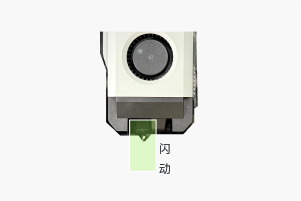
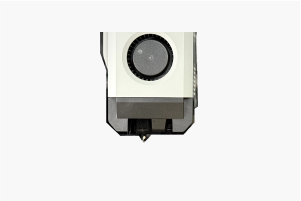
FIX:Fixed incorrect printer status
jira:[fixed device issue ]

(cherry picked from commit 0572d811780ac406214665af7748e4ba8243bdc8)

diff --git a/src/slic3r/GUI/StatusPanel.cpp b/src/slic3r/GUI/StatusPanel.cpp
@@ -2161,10 +2161,11 @@ StatusPanel::StatusPanel(wxWindow *parent, wxWindowID id, const wxPoint &pos, co
     Bind(wxEVT_WEBREQUEST_STATE, &StatusPanel::on_webrequest_state, this);
 
     Bind(wxCUSTOMEVT_SET_TEMP_FINISH, [this](wxCommandEvent e) {
-        int id = e.GetInt();
+        int  id   = e.GetInt();
         if (id == m_tempCtrl_bed->GetType()) {
             on_set_bed_temp();
         } else if (id == m_tempCtrl_nozzle->GetType()) {
+
             if (e.GetString() == wxString::Format("%d", MAIN_NOZZLE_ID)) {
                 on_set_nozzle_temp(MAIN_NOZZLE_ID);
             } else if (e.GetString() == wxString::Format("%d", DEPUTY_NOZZLE_ID)) {
@@ -2190,6 +2191,8 @@ StatusPanel::StatusPanel(wxWindow *parent, wxWindowID id, const wxPoint &pos, co
     m_tempCtrl_bed->Connect(wxEVT_SET_FOCUS, wxFocusEventHandler(StatusPanel::on_bed_temp_set_focus), NULL, this);
     m_tempCtrl_nozzle->Connect(wxEVT_KILL_FOCUS, wxFocusEventHandler(StatusPanel::on_nozzle_temp_kill_focus), NULL, this);
     m_tempCtrl_nozzle->Connect(wxEVT_SET_FOCUS, wxFocusEventHandler(StatusPanel::on_nozzle_temp_set_focus), NULL, this);
+    m_tempCtrl_nozzle_deputy->Connect(wxEVT_KILL_FOCUS, wxFocusEventHandler(StatusPanel::on_nozzle_temp_kill_focus), NULL, this);
+    m_tempCtrl_nozzle_deputy->Connect(wxEVT_SET_FOCUS, wxFocusEventHandler(StatusPanel::on_nozzle_temp_set_focus), NULL, this);
     m_tempCtrl_chamber->Connect(wxEVT_KILL_FOCUS, wxFocusEventHandler(StatusPanel::on_cham_temp_kill_focus), NULL, this);
     m_tempCtrl_chamber->Connect(wxEVT_SET_FOCUS, wxFocusEventHandler(StatusPanel::on_cham_temp_set_focus), NULL, this);
     m_switch_lamp->Connect(wxEVT_COMMAND_BUTTON_CLICKED, wxCommandEventHandler(StatusPanel::on_lamp_switch), NULL, this);
@@ -2256,6 +2259,10 @@ StatusPanel::~StatusPanel()
     m_tempCtrl_bed->Disconnect(wxEVT_SET_FOCUS, wxFocusEventHandler(StatusPanel::on_bed_temp_set_focus), NULL, this);
     m_tempCtrl_nozzle->Disconnect(wxEVT_KILL_FOCUS, wxFocusEventHandler(StatusPanel::on_nozzle_temp_kill_focus), NULL, this);
     m_tempCtrl_nozzle->Disconnect(wxEVT_SET_FOCUS, wxFocusEventHandler(StatusPanel::on_nozzle_temp_set_focus), NULL, this);
+
+    m_tempCtrl_nozzle_deputy->Disconnect(wxEVT_KILL_FOCUS, wxFocusEventHandler(StatusPanel::on_nozzle_temp_kill_focus), NULL, this);
+    m_tempCtrl_nozzle_deputy->Disconnect(wxEVT_SET_FOCUS, wxFocusEventHandler(StatusPanel::on_nozzle_temp_set_focus), NULL, this);
+
     m_switch_lamp->Disconnect(wxEVT_COMMAND_BUTTON_CLICKED, wxCommandEventHandler(StatusPanel::on_lamp_switch), NULL, this);
     /*m_switch_nozzle_fan->Disconnect(wxEVT_COMMAND_TOGGLEBUTTON_CLICKED, wxCommandEventHandler(StatusPanel::on_nozzle_fan_switch), NULL, this);
     m_switch_printing_fan->Disconnect(wxEVT_COMMAND_TOGGLEBUTTON_CLICKED, wxCommandEventHandler(StatusPanel::on_nozzle_fan_switch), NULL, this);
@@ -2853,24 +2860,28 @@ void StatusPanel::update_temp_ctrl(MachineObject *obj)
     if (m_temp_nozzle_timeout > 0) {
         m_temp_nozzle_timeout--;
     } else {
-        if (!nozzle_temp_input) { m_tempCtrl_nozzle->SetTagTemp((int) obj->m_extder_data.extders[MAIN_NOZZLE_ID].target_temp); }
+        if (!nozzle_temp_input) {
+            m_tempCtrl_nozzle->SetTagTemp((int) obj->m_extder_data.extders[MAIN_NOZZLE_ID].target_temp);
+        }
     }
 
     if (m_temp_nozzle_deputy_timeout > 0) {
         m_temp_nozzle_deputy_timeout--;
     }
     else {
-        if (!nozzle_temp_input && nozzle_num >= 2) { m_tempCtrl_nozzle_deputy->SetTagTemp((int)obj->m_extder_data.extders[DEPUTY_NOZZLE_ID].target_temp); }
+        if (!nozzle_temp_input && nozzle_num >= 2) {
+            m_tempCtrl_nozzle_deputy->SetTagTemp((int)obj->m_extder_data.extders[DEPUTY_NOZZLE_ID].target_temp);
+        }
     }
 
-    if ((obj->m_extder_data.extders[0].target_temp - obj->m_extder_data.extders[0].temp) >= TEMP_THRESHOLD_VAL) {
+    if ((obj->m_extder_data.extders[MAIN_NOZZLE_ID].target_temp - obj->m_extder_data.extders[MAIN_NOZZLE_ID].temp) >= TEMP_THRESHOLD_VAL) {
         m_tempCtrl_nozzle->SetIconActive();
     } else {
         m_tempCtrl_nozzle->SetIconNormal();
     }
 
     if (nozzle_num >= 2 && obj->m_extder_data.extders.size() > 1){
-        if ((obj->m_extder_data.extders[1].target_temp - obj->m_extder_data.extders[1].temp) >= TEMP_THRESHOLD_VAL) {
+        if ((obj->m_extder_data.extders[DEPUTY_NOZZLE_ID].target_temp - obj->m_extder_data.extders[DEPUTY_NOZZLE_ID].temp) >= TEMP_THRESHOLD_VAL) {
             m_tempCtrl_nozzle_deputy->SetIconActive();
         }
         else {
@@ -2913,17 +2924,18 @@ void StatusPanel::update_misc_ctrl(MachineObject *obj)
         m_extruderImage[select_index]->update(ExtruderState::FILLED_LOAD, ExtruderState::FILLED_UNLOAD);
 
         /*current*/
-        if (obj->m_extder_data.current_extder_id == 0xf) {
-            m_extruderImage[select_index]->setExtruderUsed("");
-            m_nozzle_btn_panel->updateState("");
-        } else if (obj->m_extder_data.current_extder_id == MAIN_NOZZLE_ID) {
-            m_extruderImage[select_index]->setExtruderUsed("right");
-            m_nozzle_btn_panel->updateState("right");
-        } else if (obj->m_extder_data.current_extder_id == DEPUTY_NOZZLE_ID) {
-            m_extruderImage[select_index]->setExtruderUsed("left");
-            m_nozzle_btn_panel->updateState("left");
+        if (obj->flag_update_nozzle) {
+            if (obj->m_extder_data.current_extder_id == 0xf) {
+                m_extruderImage[select_index]->setExtruderUsed("");
+                m_nozzle_btn_panel->updateState("");
+            } else if (obj->m_extder_data.current_extder_id == MAIN_NOZZLE_ID) {
+                m_extruderImage[select_index]->setExtruderUsed("right");
+                m_nozzle_btn_panel->updateState("right");
+            } else if (obj->m_extder_data.current_extder_id == DEPUTY_NOZZLE_ID) {
+                m_extruderImage[select_index]->setExtruderUsed("left");
+                m_nozzle_btn_panel->updateState("left");
+            }
         }
-        Layout();
     } else {
         m_nozzle_btn_panel->Hide();
         m_extruder_book->SetSelection(m_nozzle_num);
@@ -3162,24 +3174,19 @@ void StatusPanel::update_ams(MachineObject *obj)
                 m_ams_control->SetExtruder(false, true, ext.snow.ams_id, m_ams_control->GetCanColour(obj->m_ams_id, obj->m_tray_id));
             }
         }
-
-
-        //m_ams_control->SetAmsStep(std::to_string(VIRTUAL_TRAY_MAIN_ID), "0", AMSPassRoadType::AMS_ROAD_TYPE_LOAD, AMSPassRoadSTEP::AMS_ROAD_STEP_COMBO_LOAD_STEP3);
-        //m_ams_control->SetExtruder(true, true, std::to_string(VIRTUAL_TRAY_MAIN_ID), *wxRED);
     }
 
     bool ams_loading_state = false;
     auto ams_status_sub = obj->ams_status_sub;
 
     int vt_tray_id = VIRTUAL_TRAY_DEPUTY_ID;
-    /*if (obj->is_enable_np) {
-        if (obj->m_extder_data.current_loading_extder_id == MAIN_NOZZLE_ID || obj->m_extder_data.current_loading_extder_id == DEPUTY_NOZZLE_ID) {
+    if (obj->is_enable_np) {
+        if (obj->m_extder_data.current_busy_for_loading) {
             ams_loading_state = true;
         }
-    } else if(obj->ams_status_main == AMS_STATUS_MAIN_FILAMENT_CHANGE){
+    } else if (obj->ams_status_main == AMS_STATUS_MAIN_FILAMENT_CHANGE) {
         ams_loading_state = true;
-    }*/
-
+    }
 
     if (ams_loading_state) {
         update_filament_step();
@@ -3346,7 +3353,6 @@ void StatusPanel::update_ams_insert_material(MachineObject* obj) {
 
 void StatusPanel::update_ams_control_state(std::string ams_id, std::string slot_id)
 {
-    return;
     // set default value to true
     bool enable[ACTION_BTN_COUNT];
     enable[ACTION_BTN_LOAD] = true;
@@ -3362,10 +3368,13 @@ void StatusPanel::update_ams_control_state(std::string ams_id, std::string slot_
         else {
             /*switch now*/
             bool in_switch_filament = false;
-            for ( auto ext : obj->m_extder_data.extders) {
-                if (ext.ams_stat == AmsStatusMain::AMS_STATUS_MAIN_FILAMENT_CHANGE) {
+
+            if (obj->is_enable_np) {
+                if (obj->m_extder_data.current_busy_for_loading) {
                     in_switch_filament = true;
                 }
+            } else if (obj->ams_status_main == AMS_STATUS_MAIN_FILAMENT_CHANGE) {
+                in_switch_filament = true;
             }
 
             if (in_switch_filament) {
@@ -4011,7 +4020,7 @@ void StatusPanel::on_set_nozzle_temp(int nozzle_id)
         if (nozzle_id == DEPUTY_NOZZLE_ID) {
             wxString str = m_tempCtrl_nozzle_deputy->GetTextCtrl()->GetValue();
             if (str.ToLong(&nozzle_temp) && obj) {
-                // set_hold_count(m_temp_nozzle_deputy_timeout);
+                set_hold_count(m_temp_nozzle_deputy_timeout);
                 if (nozzle_temp > m_tempCtrl_nozzle_deputy->get_max_temp()) {
                     nozzle_temp = m_tempCtrl_nozzle_deputy->get_max_temp();
                     m_tempCtrl_nozzle_deputy->SetTagTemp(wxString::Format("%d", nozzle_temp));
@@ -4055,7 +4064,6 @@ void StatusPanel::on_ams_load(SimpleEvent &event)
 
 void StatusPanel::update_filament_step()
 {
-    //m_ams_control->UpdateStepCtrl(obj->is_filament_at_extruder());
     m_filament_step->UpdateStepCtrl(obj->is_filament_at_extruder());
     if (!obj->is_filament_at_extruder()) {
         m_is_load_with_temp = true;
@@ -4654,7 +4662,7 @@ void StatusPanel::on_nozzle_fan_switch(wxCommandEvent &event)
         m_fan_control_popup->Destroy();
         m_fan_control_popup = nullptr;
     }
-    
+
     if (!obj)
         return;
 
@@ -4776,7 +4784,7 @@ void StatusPanel::on_xyz_abs(wxCommandEvent &event)
 void StatusPanel::on_nozzle_selected(wxCommandEvent &event)
 {
     if (obj) {
-        obj->m_extder_data.current_extder_id = event.GetInt();
+        obj->flag_update_nozzle = false;
         auto nozzle_id = event.GetInt();obj->command_select_extruder(nozzle_id);
     }
 }
@@ -4851,6 +4859,7 @@ void StatusPanel::set_default()
     speed_lvl_timeout = 0;
     m_switch_lamp_timeout = 0;
     m_temp_nozzle_timeout = 0;
+    m_temp_nozzle_deputy_timeout = 0;
     m_temp_bed_timeout = 0;
     m_temp_chamber_timeout = 0;
     m_switch_nozzle_fan_timeout = 0;

diff --git a/src/slic3r/GUI/DeviceManager.cpp b/src/slic3r/GUI/DeviceManager.cpp
@@ -1589,8 +1589,6 @@ int MachineObject::command_select_extruder(int id)
 {
     BOOST_LOG_TRIVIAL(info) << "select_extruder";
 
-    nozzle_selected_count = HOLD_COUNT_MAX;
-
     json j;
     j["print"]["sequence_id"]    = std::to_string(MachineObject::m_sequence_id++);
     j["print"]["command"]        = "select_extruder";
@@ -1866,8 +1864,6 @@ int MachineObject::command_set_nozzle(int temp)
 int MachineObject::command_set_nozzle_new(int nozzle_id, int temp)
 {
     BOOST_LOG_TRIVIAL(info) << "set_nozzle_temp";
-
-    nozzle_selected_count = HOLD_COUNT_MAX;
 
     json j;
     j["print"]["sequence_id"]    = std::to_string(MachineObject::m_sequence_id++);
@@ -5302,7 +5298,7 @@ void MachineObject::converse_to_duct(bool is_suppt_part_fun, bool is_suppt_aux_f
     m_air_duct_data.curren_mode = -1; //def mode
 
 
-    if (is_suppt_part_fun) { 
+    if (is_suppt_part_fun) {
         AirParts part_fan;
         part_fan.type           = int(AirDuctType::AIR_FAN_TYPE);
         part_fan.id             = int(AIR_FUN::FAN_COOLING_0_AIRDOOR);
@@ -5636,9 +5632,9 @@ void MachineObject::parse_new_info(json print)
             json const &nozzle = device["nozzle"];
 
             m_nozzle_data = NozzleData();
-            m_nozzle_data.extder_exist = get_flag_bits(nozzle["exist"].get<int>(), 0, 15);
-            m_nozzle_data.cut_exist = get_flag_bits(nozzle["exist"].get<int>(), 16, 31);
-            m_nozzle_data.state = get_flag_bits(nozzle["state"].get<int>(), 0, 3);
+            m_nozzle_data.extder_exist      = get_flag_bits(nozzle["exist"].get<int>(), 0, 15);
+            m_nozzle_data.cut_exist         = get_flag_bits(nozzle["exist"].get<int>(), 16, 31);
+            m_nozzle_data.state             = get_flag_bits(nozzle["state"].get<int>(), 0, 3);
 
             for (auto it = nozzle["info"].begin(); it != nozzle["info"].end(); it++) {
                 Nozzle nozzle_obj;
@@ -5682,17 +5678,20 @@ void MachineObject::parse_new_info(json print)
         if (device.contains("extruder")) {
             json const& extruder = device["extruder"];
 
-            m_extder_data = ExtderData();
-            m_extder_data.total_extder_count = get_flag_bits(extruder["state"].get<int>(), 0, 3);
+            auto extder_data = ExtderData();
+            extder_data.total_extder_count        = get_flag_bits(extruder["state"].get<int>(), 0, 3);
 
-            if (nozzle_selected_count > 0) {
-                nozzle_selected_count--;
-            } else {
-                m_extder_data.current_extder_id = get_flag_bits(extruder["state"].get<int>(), 4, 3);
-                m_extder_data.target_extder_id  = get_flag_bits(extruder["state"].get<int>(), 8, 3);
-                m_extder_data.switch_extder_state = (ExtruderSwitchState) get_flag_bits(extruder["state"].get<int>(), 12, 2);
-                m_extder_data.current_loading_extder_id = get_flag_bits(extruder["state"].get<int>(), 15, 3);
+
+            extder_data.current_extder_id         = get_flag_bits(extruder["state"].get<int>(), 4, 3);
+            extder_data.target_extder_id          = get_flag_bits(extruder["state"].get<int>(), 8, 3);
+            extder_data.switch_extder_state       = (ExtruderSwitchState) get_flag_bits(extruder["state"].get<int>(), 12, 2);
+
+            if (extder_data.switch_extder_state != ExtruderSwitchState::ES_SWITCHING && extder_data.target_extder_id == extder_data.current_extder_id) {
+                flag_update_nozzle = true;
             }
+
+            extder_data.current_loading_extder_id = get_flag_bits(extruder["state"].get<int>(), 15, 3);
+            extder_data.current_busy_for_loading  = get_flag_bits(extruder["state"].get<int>(), 19);
 
             for (auto it = extruder["info"].begin(); it != extruder["info"].end(); it++) {
 
@@ -5743,19 +5742,21 @@ void MachineObject::parse_new_info(json print)
                         }
                     }
                 }
-                m_extder_data.extders.push_back(extder_obj);
+                extder_data.extders.push_back(extder_obj);
             }
 
-            if (m_extder_data.extders.size() <= 0) {
+            if (extder_data.extders.size() <= 0) {
                 // def data
-                m_extder_data.current_extder_id  = 0;
-                m_extder_data.target_extder_id   = 0;
-                m_extder_data.total_extder_count = 1;
+                extder_data.current_extder_id  = 0;
+                extder_data.target_extder_id   = 0;
+                extder_data.total_extder_count = 1;
                 Extder nozzle;
-                m_extder_data.extders.push_back(nozzle);
+                extder_data.extders.push_back(nozzle);
             }
+
+            m_extder_data = extder_data;
         }
-    } 
+    }
 }
 
 bool MachineObject::is_nozzle_data_invalid()

diff --git a/src/slic3r/GUI/Widgets/FilamentLoad.cpp b/src/slic3r/GUI/Widgets/FilamentLoad.cpp
@@ -45,10 +45,11 @@ void FilamentLoad::SetFilamentStep(FilamentStep item_idx, FilamentStepType f_typ
         m_filament_load_steps->Idle();
         m_filament_unload_steps->Idle();
         m_filament_vt_load_steps->Idle();
-        this->Hide();
+        if (IsShown()) {Hide(); }
         return;
     }
-    this->Show();
+
+    if (!IsShown()) {Show();}
     wxString step_str = wxEmptyString;
     if (item_idx < FilamentStep::STEP_COUNT) {
         step_str = FILAMENT_CHANGE_STEP_STRING[item_idx];
@@ -58,36 +59,36 @@ void FilamentLoad::SetFilamentStep(FilamentStep item_idx, FilamentStepType f_typ
     if (f_type == FilamentStepType::STEP_TYPE_LOAD) {
         step_control = m_filament_load_steps;
         if (item_idx > 0 && item_idx < FilamentStep::STEP_COUNT) {
-            if (this->GetSelection() != 0) {
-                this->SetSelection(0);
+            if (GetSelection() != 0) {
+                SetSelection(0);
             }
             m_filament_load_steps->SelectItem(m_filament_load_steps->GetItemUseText(step_str));
         }
         else {
             m_filament_load_steps->Idle();
-            this->Hide();
-            this->Layout();
+            Hide();
+            Layout();
         }
     }
     else if (f_type == FilamentStepType::STEP_TYPE_UNLOAD) {
         step_control = m_filament_unload_steps;
         if (item_idx > 0 && item_idx < FilamentStep::STEP_COUNT) {
             if (GetSelection() != 1) {
-                this->SetSelection(1);
-                this->Layout();
+                SetSelection(1);
+                Layout();
             }
             m_filament_unload_steps->SelectItem(m_filament_unload_steps->GetItemUseText(step_str));
         }
         else {
             m_filament_unload_steps->Idle();
-            this->Hide();
-            this->Layout();
+            Hide();
+            Layout();
         }
     }
     else if (f_type == FilamentStepType::STEP_TYPE_VT_LOAD) {
         step_control = m_filament_vt_load_steps;
-        this->SetSelection(2);
-        this->Layout();
+        SetSelection(2);
+        Layout();
         if (item_idx > 0 && item_idx < FilamentStep::STEP_COUNT) {
             if (item_idx == STEP_CONFIRM_EXTRUDED) {
                 m_filament_vt_load_steps->SelectItem(2);
@@ -98,8 +99,8 @@ void FilamentLoad::SetFilamentStep(FilamentStep item_idx, FilamentStepType f_typ
         }
         else {
             m_filament_vt_load_steps->Idle();
-            this->Hide();
-            this->Layout();
+            Hide();
+            Layout();
         }
     }
     else {
@@ -110,8 +111,8 @@ void FilamentLoad::SetFilamentStep(FilamentStep item_idx, FilamentStepType f_typ
         }
         else {
             m_filament_load_steps->Idle();
-            this->Hide();
-            this->Layout();
+            Hide();
+            Layout();
         }
     }
 
@@ -130,7 +131,7 @@ void FilamentLoad::UpdateStepCtrl(bool is_extrusion_exist) {
 
     is_extrusion = true;    //Forgot what it means, need to update dynamically
 
-    if (m_ams_model == AMSModel::GENERIC_AMS || m_ext_model == AMSModel::GENERIC_AMS) {
+    if (m_ams_model == AMSModel::GENERIC_AMS || m_ext_model == AMSModel::N3F_AMS) {
         if (is_extrusion) {
             m_filament_load_steps->AppendItem(FILAMENT_CHANGE_STEP_STRING[FilamentStep::STEP_HEAT_NOZZLE]);
             m_filament_load_steps->AppendItem(FILAMENT_CHANGE_STEP_STRING[FilamentStep::STEP_CUT_FILAMENT]);

diff --git a/src/slic3r/GUI/DeviceManager.hpp b/src/slic3r/GUI/DeviceManager.hpp
@@ -220,6 +220,7 @@ struct ExtderData
     int target_extder_id{0};
     int total_extder_count {0};
     int current_loading_extder_id {-1};
+    bool current_busy_for_loading{false};
     ExtruderSwitchState switch_extder_state;
     std::vector<Extder> extders;
 };
@@ -915,6 +916,7 @@ public:
     int  xcam_filament_tangle_detect_count = 0;
     int  ams_print_option_count = 0;
     int  nozzle_selected_count = 0;
+    bool flag_update_nozzle = {true};
 
     //supported features
     bool is_support_chamber_edit{false};